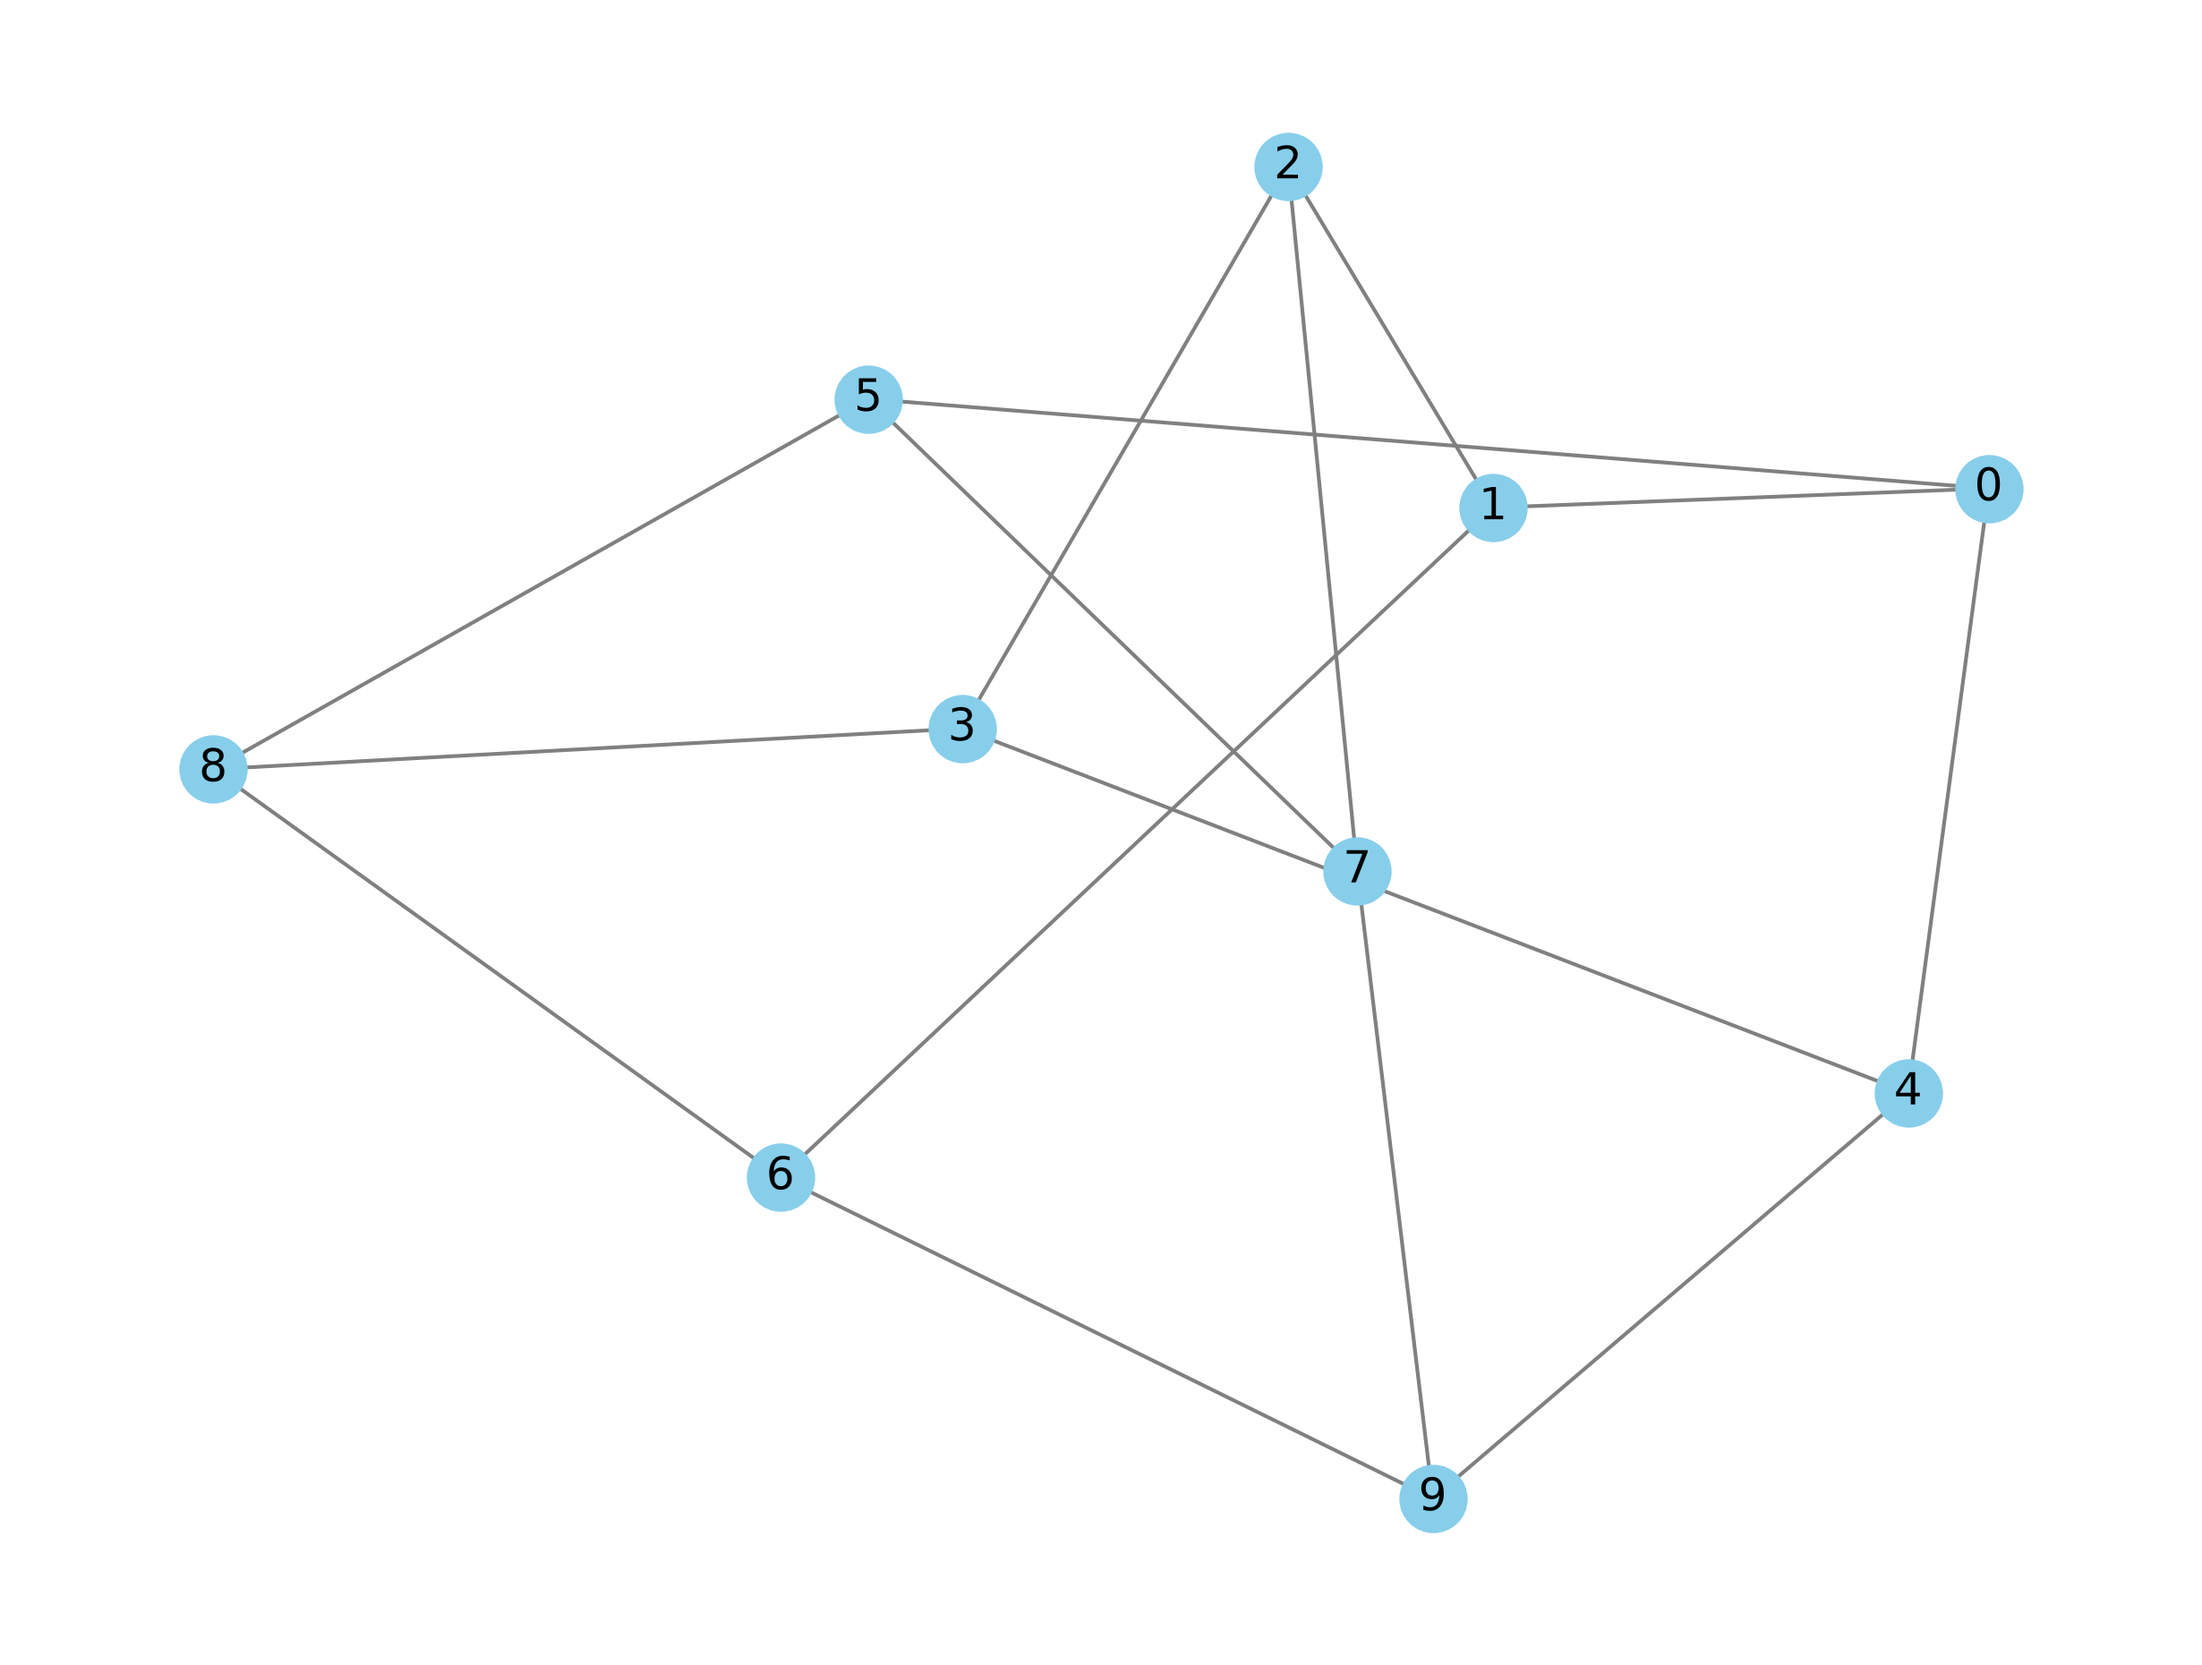
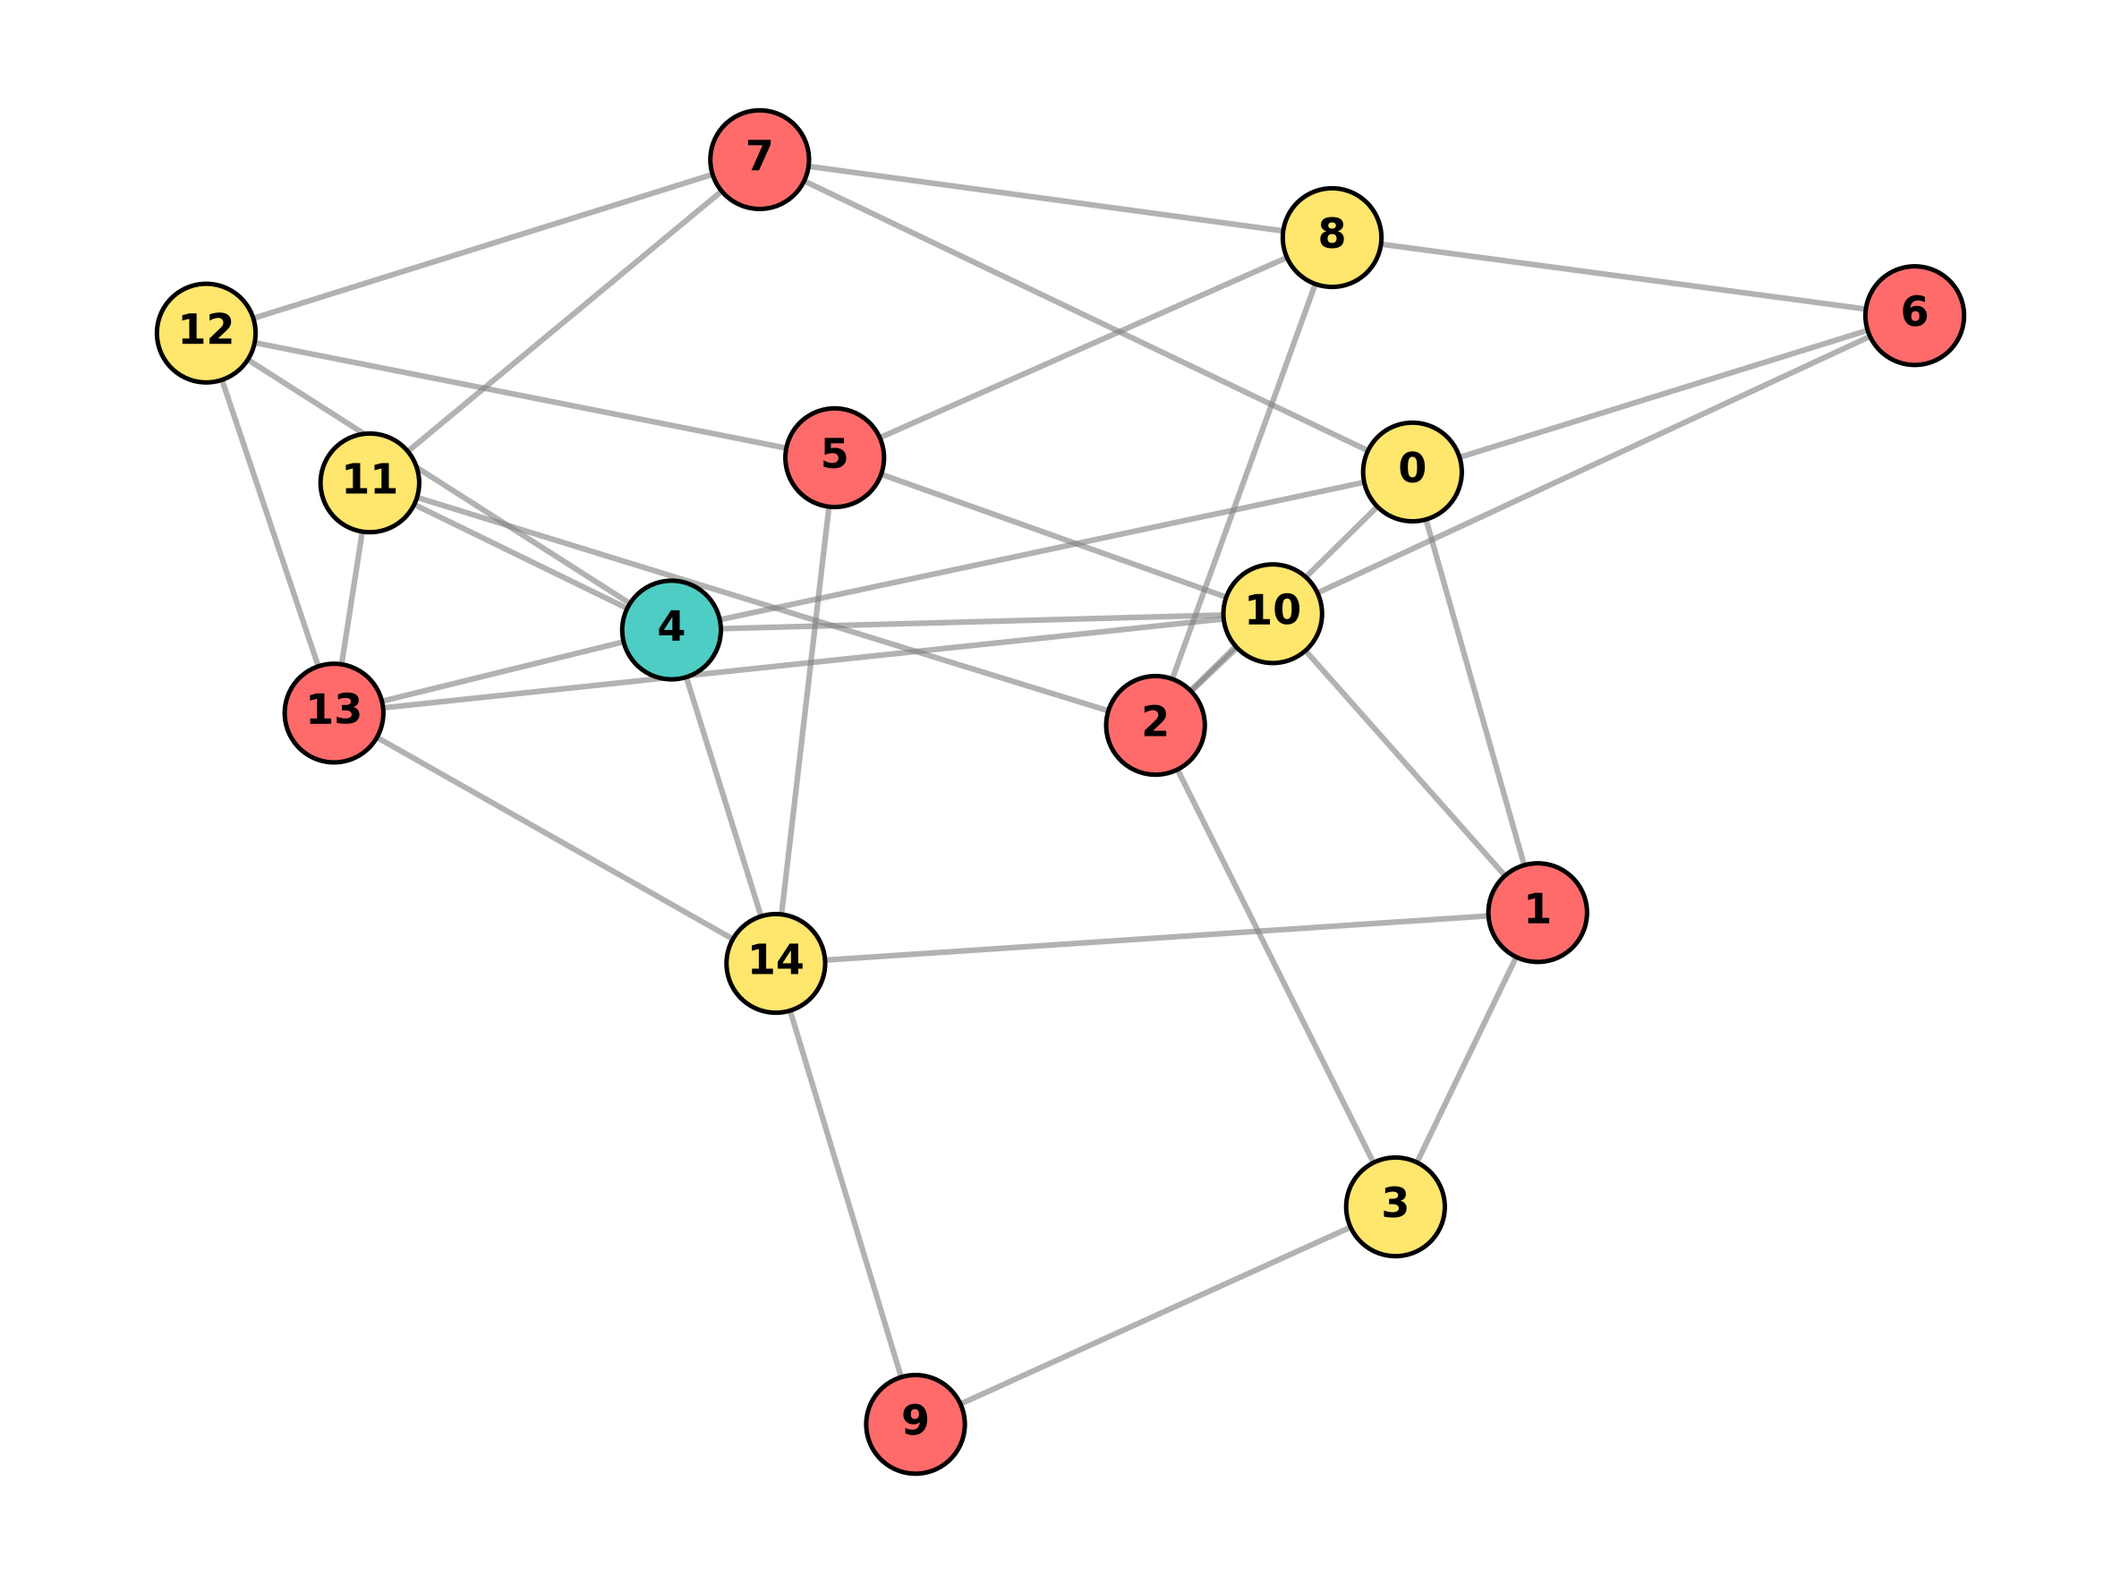
Mer tekst rundt om i dokumentet

diff --git a/3-ikke-colourable.py b/3-ikke-colourable.py
@@ -1,0 +1,72 @@
+import random
+import matplotlib.pyplot as plt
+import networkx as nx
+
+def generate_non_3_colorable_graph(num_nodes=15, edge_probability=0.4):
+    """
+    Generates a graph guaranteed NOT to be 3-colorable by embedding a 
+    K_4 clique (4 fully connected nodes) as a core invariant.
+    """
+    G = nx.Graph()
+    G.add_nodes_from(range(num_nodes))
+    
+    # Step 1: Force a K_4 clique on the first 4 nodes (0, 1, 2, 3)
+    # A complete graph of 4 nodes strictly requires 4 colors.
+    k4_nodes = [0, 1, 2, 3]
+    for i in range(len(k4_nodes)):
+        for j in range(i + 1, len(k4_nodes)):
+            G.add_edge(k4_nodes[i], k4_nodes[j])
+            
+    # Step 2: Add remaining random edges across the rest of the graph
+    for i in range(num_nodes):
+        for j in range(i + 1, num_nodes):
+            # Skip edges already added in the K_4 core
+            if i in k4_nodes and j in k4_nodes:
+                continue
+            if random.random() < edge_probability:
+                G.add_edge(i, j)
+                
+    return G
+
+def plot_and_save_non_3_colorable(G, filename="G2.png"):
+    """
+    Computes a greedy coloring (which will require >= 4 colors) and 
+    saves the visualization as a PNG.
+    """
+    # Use NetworkX's greedy coloring strategy to color the graph
+    coloring = nx.coloring.greedy_color(G, strategy="saturation_largest_first")
+    max_color = max(coloring.values()) + 1
+    
+    print(f"Graph successfully colored using {max_color} colors (proving it's not 3-colorable).")
+    
+    # Define a distinct color palette for up to 5 colors
+    color_map_palette = ['#FF6B6B', '#4ECDC4', '#FFE66D', '#C7F464', '#4D96FF']
+    node_colors = [color_map_palette[coloring[node] % len(color_map_palette)] for node in G.nodes()]
+    
+    plt.figure(figsize=(8, 6))
+    pos = nx.spring_layout(G, seed=42)
+    
+    # Highlight the K_4 core nodes differently or draw normally with the color palette
+    nx.draw_networkx_nodes(G, pos, node_color=node_colors, node_size=700, edgecolors='black', linewidths=1.2)
+    nx.draw_networkx_edges(G, pos, width=1.5, alpha=0.6, edge_color='gray')
+    nx.draw_networkx_labels(G, pos, font_size=11, font_weight='bold', font_color='black')
+    
+    #plt.title(f"Guaranteed Non-3-Colorable Graph ($n=15$, Requires {max_color} Colors)", fontsize=13, fontweight='bold', pad=15)
+    plt.axis('off')
+    plt.tight_layout()
+    
+    plt.savefig(filename, dpi=300, bbox_inches='tight')
+    plt.close()
+    print(f"Successfully generated and saved graph to '{filename}'")
+
+if __name__ == "__main__":
+    random.seed(42)
+    
+    # Generate graph with 15 nodes
+    G = generate_non_3_colorable_graph(num_nodes=15, edge_probability=0.4)
+    
+    print(f"Nodes: {G.number_of_nodes()}")
+    print(f"Edges: {G.number_of_edges()}")
+    
+    # Render and save
+    plot_and_save_non_3_colorable(G)

diff --git a/3-colouring.py b/3-colouring.py
@@ -1,0 +1,70 @@
+import random
+import matplotlib.pyplot as plt
+import networkx as nx
+
+def generate_3_colorable_graph(num_nodes=15, edge_probability=0.4):
+    """
+    Generates a graph guaranteed to be 3-colorable by assigning colors first
+    and only adding edges between nodes of differing colors.
+    """
+    G = nx.Graph()
+    G.add_nodes_from(range(num_nodes))
+    
+    # Step 1: Assign a secret color (0, 1, or 2) to each node
+    colors = {node: random.randint(0, 2) for node in G.nodes()}
+    nx.set_node_attributes(G, colors, 'color')
+    
+    # Step 2: Add edges conditionally (only if colors are different)
+    for i in range(num_nodes):
+        for j in range(i + 1, num_nodes):
+            if colors[i] != colors[j]:
+                if random.random() < edge_probability:
+                    G.add_edge(i, j)
+                    
+    return G, colors
+
+def plot_and_save_graph(G, colors, filename="G1.png"):
+    """
+    Renders the graph using matplotlib, coloring nodes according to their 
+    valid 3-coloring assignment, and saves it as a PNG.
+    """
+    # Define a distinct color palette for the 3 colors
+    color_map = {
+        0: '#FF6B6B',  # Coral Red
+        1: '#4ECDC4',  # Turquoise
+        2: '#FFE66D'   # Soft Yellow
+    }
+    node_colors = [color_map[colors[node]] for node in G.nodes()]
+    
+    plt.figure(figsize=(8, 6))
+    
+    # Use spring layout with a fixed seed for reproducible node positioning
+    pos = nx.spring_layout(G, seed=42)
+    
+    # Draw graph components
+    nx.draw_networkx_nodes(G, pos, node_color=node_colors, node_size=700, edgecolors='black', linewidths=1.2)
+    nx.draw_networkx_edges(G, pos, width=1.5, alpha=0.6, edge_color='gray')
+    nx.draw_networkx_labels(G, pos, font_size=11, font_weight='bold', font_color='black')
+    
+    #plt.title("Guaranteed 3-Colorable Graph ($n=15$)", fontsize=14, fontweight='bold', pad=15)
+    plt.axis('off')
+    plt.tight_layout()
+    
+    # Save to file
+    plt.savefig(filename, dpi=300, bbox_inches='tight')
+    plt.close()
+    print(f"Successfully generated and saved graph to '{filename}'")
+
+if __name__ == "__main__":
+    # Set seed for reproducible results
+    random.seed(42)
+    
+    # Generate graph with 15 nodes
+    G, node_colors = generate_3_colorable_graph(num_nodes=15, edge_probability=0.45)
+    
+    # Output statistics
+    print(f"Nodes: {G.number_of_nodes()}")
+    print(f"Edges: {G.number_of_edges()}")
+    
+    # Render and save
+    plot_and_save_graph(G, node_colors)
